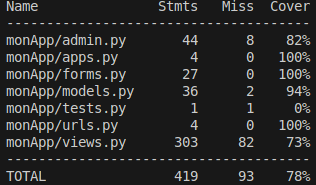
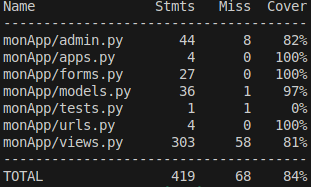
fin tp4

diff --git a/TutoDjango/monApp/tests/Url/tests_Contenir_Urls.py b/TutoDjango/monApp/tests/Url/tests_Contenir_Urls.py
@@ -1,0 +1,78 @@
+from django.test import TestCase
+from django.urls import reverse, resolve
+from django.contrib.auth.models import User
+from monApp.views import ContenirCreateView, ContenirUpdateView, ContenirDeleteView
+from monApp.models import Contenir, Rayon, Produit
+
+class CategorieUrlsTest(TestCase):
+    def setUp(self):
+        self.produit = Produit.objects.create(intituleProd="prod", prixUnitaireProd=59.99, dateFabricationProd='2025-09-09')
+        self.rayon = Rayon.objects.create(nomRayon="rayon")
+        self.contenir = Contenir.objects.create(produits=self.produit, rayons=self.rayon, quantite=60)
+        self.user = User.objects.create_user(username='testuser', password='secret')
+        self.client.login(username='testuser', password='secret')
+    
+    # Test URL
+    def test_contenir_create_url_is_resolved(self): # Test URL créer
+        url = reverse('cntnr_crt', args=[self.rayon.pk])
+        self.assertEqual(resolve(url).view_name, 'cntnr_crt')
+        self.assertEqual(resolve(url).func.view_class, ContenirCreateView)
+
+    def test_contenir_update_url_is_resolved(self): # Test URL change
+        url = reverse('cntnr_upt', args=[self.rayon.pk, self.contenir.pk])
+        self.assertEqual(resolve(url).view_name, 'cntnr_upt')
+        self.assertEqual(resolve(url).func.view_class, ContenirUpdateView)
+
+    def test_contenir_delete_url_is_resolved(self): # Test URL suppréssion
+        url = reverse('cntnr_dlt', args=[1, 1])
+        self.assertEqual(resolve(url).view_name, 'cntnr_dlt')
+        self.assertEqual(resolve(url).func.view_class, ContenirDeleteView)
+    
+    # Test code d'erreur (OK = code bon, KO = pas bon)
+    def test_contenir_create_response_code_OK(self):
+        response = self.client.get(reverse('cntnr_crt', args=[self.rayon.pk]))
+        self.assertEqual(response.status_code, 200)
+    
+    def test_contenir_update_response_code_OK(self):
+        url = reverse('cntnr_upt', args=[self.rayon.pk, self.contenir.pk]) # id existant
+        response = self.client.get(url)
+        self.assertEqual(response.status_code, 200)
+    
+    def test_contenir_update_response_code_KO(self):
+        url = reverse('cntnr_upt', args=[self.rayon.pk, 9999]) # id non existant
+        response = self.client.get(url)
+        self.assertEqual(response.status_code, 404)
+
+    def test_contenir_delete_response_code_OK(self):
+        url = reverse('cntnr_dlt', args=[self.rayon.pk, self.contenir.pk]) # id existant
+        response = self.client.get(url)
+        self.assertEqual(response.status_code, 200)
+    
+    def test_contenir_delete_response_code_KO(self):
+        url = reverse('cntnr_dlt', args=[self.rayon.pk, 9999]) # id non existant
+        response = self.client.get(url)
+        self.assertEqual(response.status_code, 404)
+    
+    # Test redirection
+    def test_redirect_after_contenir_creation(self):
+        response = self.client.post(reverse('cntnr_crt', args=[self.rayon.pk]), {'produits': self.produit.pk, 'quantite': 60})
+        # Statut 302 = redirection
+        self.assertEqual(response.status_code, 302)
+        # Redirection vers la vue de detail
+        self.assertRedirects(response, f"/monApp/rayon/{self.rayon.idRayon}/")
+
+    def test_redirect_after_contenir_updating(self):
+        response = self.client.post(reverse('cntnr_upt', args=[self.rayon.pk, self.contenir.pk]),
+                                    data={'produits': self.produit.pk, 'quantite': 50})
+        # Statut 302 = redirection
+        self.assertEqual(response.status_code, 302)
+        # Redirection vers la vue de detail
+        self.assertRedirects(response, f"/monApp/rayon/{self.rayon.idRayon}/")
+
+    def test_redirect_after_contenir_deletion(self):
+        response = self.client.post(reverse('cntnr_dlt', args=[self.rayon.pk, self.contenir.pk]))
+        # Vérifie qu'on a bien une redirection
+        self.assertEqual(response.status_code, 302)
+        self.assertRedirects(response, f"/monApp/rayon/{self.rayon.idRayon}/")
+        # Vérifie que la catégorie a bien été supprimée de la base
+        self.assertFalse(Contenir.objects.filter(pk=self.contenir.pk).exists())

diff --git a/TutoDjango/monApp/tests/View/tests_Contenir_CRUD_Views.py b/TutoDjango/monApp/tests/View/tests_Contenir_CRUD_Views.py
@@ -1,0 +1,93 @@
+from django.test import TestCase
+from django.urls import reverse
+from monApp.models import Produit, Rayon, Contenir
+from django.contrib.auth.models import User
+
+class ContenirCreateViewTest(TestCase):
+    def setUp(self):
+        self.user = User.objects.create_user(username='testuser', password='secret')
+        self.client.login(username='testuser', password='secret')
+        self.rayon = Rayon.objects.create(nomRayon="RayonTest")
+
+    def test_contenir_create_view_get(self):
+        response = self.client.get(reverse('cntnr_crt', args=[self.rayon.idRayon]))
+        self.assertEqual(response.status_code, 200)
+        self.assertTemplateUsed(response, 'monApp/create_contenir.html')
+
+    def test_contenir_create_view_post_valid(self):
+        produit = Produit.objects.create(
+            intituleProd="ProduitTest",
+            prixUnitaireProd=10,
+            dateFabricationProd='2025-09-12'
+        )
+        data = { 
+            "produits": produit.refProd,
+            "quantite": 3
+        }
+        response = self.client.post(reverse('cntnr_crt', args=[self.rayon.idRayon]), data)
+        self.assertEqual(response.status_code, 302)
+        self.assertEqual(Contenir.objects.count(), 1)
+        contenir = Contenir.objects.last()
+        self.assertEqual(contenir.produits, produit)
+        self.assertEqual(contenir.rayons, self.rayon)
+        self.assertEqual(contenir.quantite, 3)
+
+
+class ContenirUpdateViewTest(TestCase):
+    def setUp(self):
+        self.user = User.objects.create_user(username='testuser', password='secret')
+        self.client.login(username='testuser', password='secret')
+        self.rayon = Rayon.objects.create(nomRayon="RayonTest")
+        self.produit = Produit.objects.create(
+            intituleProd="ProduitTest",
+            prixUnitaireProd=10,
+            dateFabricationProd='2025-09-12'
+        )
+        self.contenir = Contenir.objects.create(
+            rayons=self.rayon,
+            produits=self.produit,
+            quantite=1
+        )
+
+    def test_contenir_update_view_get(self):
+        response = self.client.get(reverse('cntnr_upt', args=[self.rayon.idRayon, self.contenir.id]))
+        self.assertEqual(response.status_code, 200)
+        self.assertTemplateUsed(response, 'monApp/update_contenir.html')
+
+    def test_contenir_update_view_post_valid(self):
+        data = { 
+            "produits": self.produit.refProd,
+            "quantite": 10
+        }
+        response = self.client.post(reverse('cntnr_upt', args=[self.rayon.idRayon, self.contenir.id]), data)
+        self.assertEqual(response.status_code, 302)
+        self.contenir.refresh_from_db()
+        self.assertEqual(self.contenir.quantite, 10)
+
+
+class ContenirDeleteViewTest(TestCase):
+    def setUp(self):
+        self.user = User.objects.create_user(username='testuser', password='secret')
+        self.client.login(username='testuser', password='secret')
+        self.rayon = Rayon.objects.create(nomRayon="RayonTest")
+        self.produit = Produit.objects.create(
+            intituleProd="ProduitTest",
+            prixUnitaireProd=10,
+            dateFabricationProd='2025-09-12'
+        )
+        self.contenir = Contenir.objects.create(
+            rayons=self.rayon,
+            produits=self.produit,
+            quantite=1
+        )
+
+    def test_contenir_delete_view_get(self):
+        response = self.client.get(reverse('cntnr_dlt', args=[self.rayon.idRayon, self.contenir.id]))
+        self.assertEqual(response.status_code, 200)
+        self.assertTemplateUsed(response, 'monApp/delete_contenir.html')
+
+    def test_contenir_delete_view_post(self):
+        response = self.client.post(reverse('cntnr_dlt', args=[self.rayon.idRayon, self.contenir.id]))
+        self.assertEqual(response.status_code, 302)
+        self.assertFalse(Contenir.objects.filter(id=self.contenir.id).exists())
+        self.assertRedirects(response, reverse('detail_rayon', args=[self.rayon.idRayon]))

diff --git a/TutoDjango/monApp/tests/Form/tests_Contenir_Form.py b/TutoDjango/monApp/tests/Form/tests_Contenir_Form.py
@@ -1,19 +1,13 @@
 from django.test import TestCase
 from monApp.forms import ContenirForm
-from monApp.models import Produit
+from monApp.models import Produit, Rayon
 
 class ContenirFormTest(TestCase):
     def test_form_valid_data(self):
         produit = Produit.objects.create(intituleProd="prod", prixUnitaireProd=59.99, dateFabricationProd='2025-09-09')
         form = ContenirForm(data = {'produits': produit, 'quantite': 60})
         self.assertTrue(form.is_valid()) # Le formulaire doit être valide
-    
-    # def test_form_valid_data_too_long(self):
-    #     form = ContenirForm(data = {'nomContenir': 'ContenirPourTestContenirPourTestContenirPourTestContenirPourTestContenirPourTestContenirPourTestContenirPourTestContenirPourTestContenirPourTestContenirPourTestContenirPourTestContenirPourTestContenirPourTestContenirPourTestContenirPourTestContenirPourTestContenirPourTestContenirPourTest'})
-    #     self.assertFalse(form.is_valid()) # Le formulaire doit être invalide
-    #     self.assertIn('nomContenir', form.errors) # Le champ 'nomContenir' doit contenir une erreur
-    #     self.assertEqual(form.errors['nomContenir'], ['Assurez-vous que cette valeur comporte au plus 200 caractères (actuellement 234).'])
-    
+
     def test_form_valid_data_missed(self):
         form = ContenirForm(data = {'quantite': 60})
         self.assertFalse(form.is_valid()) # Le formulaire doit être invalide
@@ -22,8 +16,11 @@ class ContenirFormTest(TestCase):
     
     def test_form_save(self):
         produit = Produit.objects.create(intituleProd="prod", prixUnitaireProd=59.99, dateFabricationProd='2025-09-09')
+        rayon = Rayon.objects.create(nomRayon="RayonPourTest")
         form = ContenirForm(data = {'produits': produit, 'quantite': 60})
         self.assertTrue(form.is_valid())
-        contenir = form.save()
-        self.assertEqual(contenir.quantite, 'ContenirPourTest')
+        contenir = form.save(commit=False)
+        contenir.rayons = rayon
+        contenir.save()
+        self.assertEqual(contenir.quantite, 60)
         self.assertEqual(contenir.id, 1)

diff --git a/README.md b/README.md
@@ -34,5 +34,5 @@ Ajout de produits dans un rayon
 Ajout d'une page pour creer, modifier et supprimer une relation entre un produit et un rayon
 
 ## TP4
-Ajout des test pour le modèle, le formulaire, les url et les views de *categorie*, *rayon*, *produit*
+Ajout des test pour le modèle, le formulaire, les url et les views de *categorie*, *rayon*, *produit*, *contenir*
 ![coverage report](coverage_report.png)
